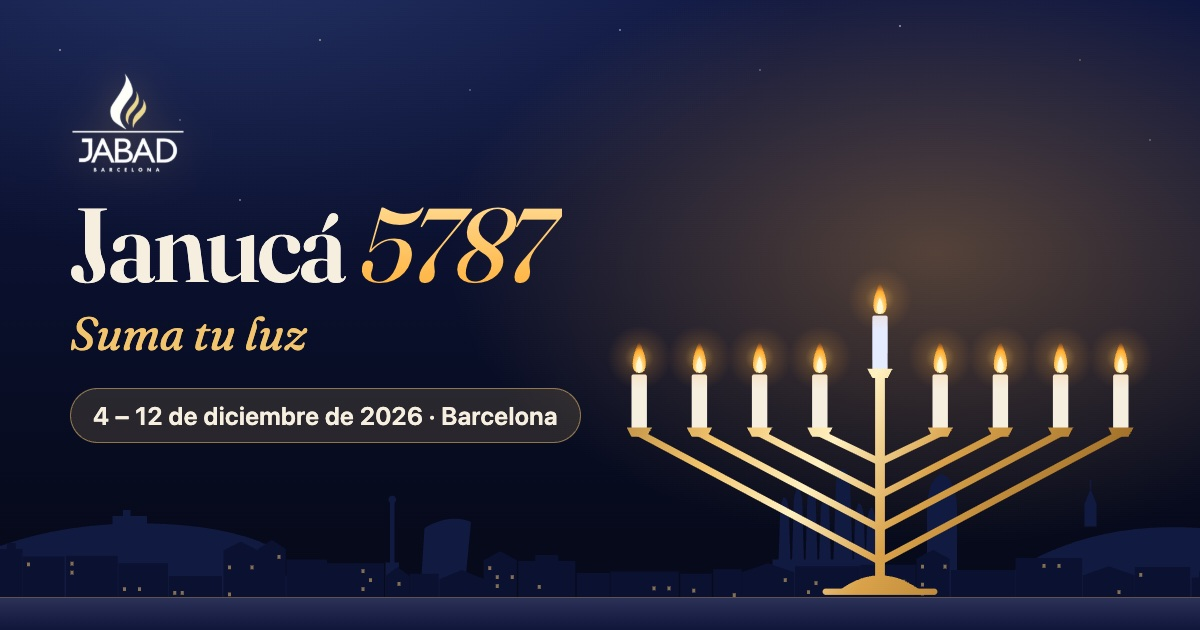
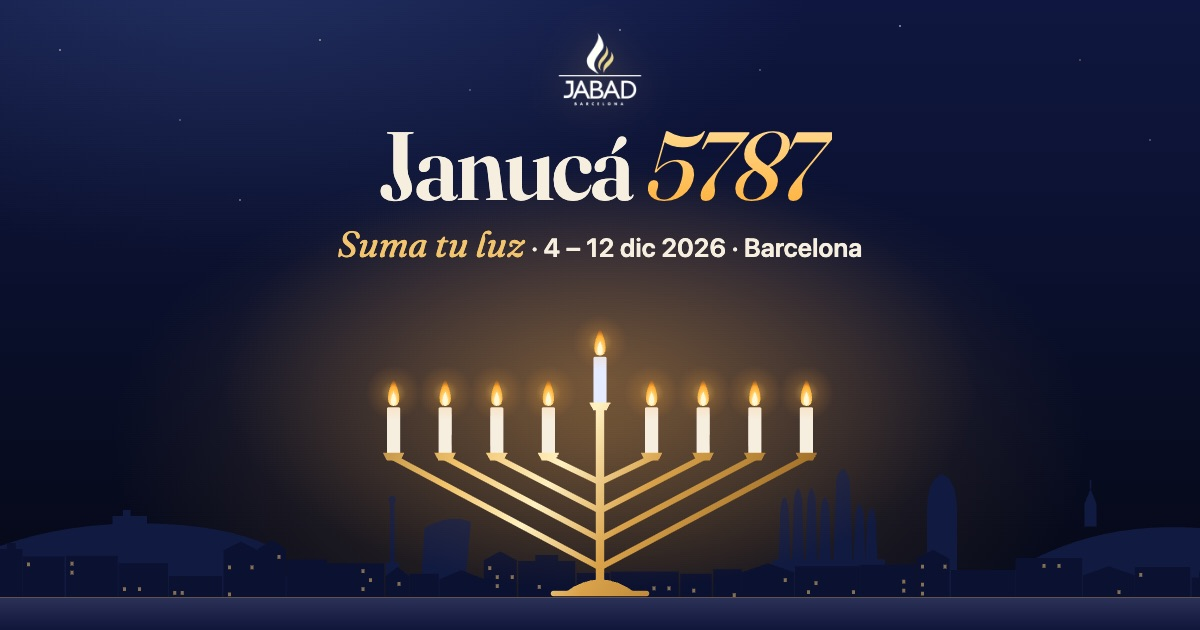
Imagen para compartir centrada (se ve bien también recortada en cuadrado) y etiquetas completas con versión

diff --git a/src/partes/compartir.html b/src/partes/compartir.html
@@ -14,7 +14,7 @@
   body {
     position: relative; font-family: system-ui, -apple-system, sans-serif; color: #f6efe0;
     background:
-      radial-gradient(700px 420px at 78% 40%, rgba(255,180,80,.30), transparent 70%),
+      radial-gradient(700px 420px at 50% 70%, rgba(255,180,80,.22), transparent 70%),
       radial-gradient(900px 500px at 20% -10%, rgba(126,166,255,.18), transparent 65%),
       linear-gradient(180deg, #0f1740, #060a1b 85%);
   }
@@ -29,25 +29,27 @@
   .sky svg { width: 100%; height: 100%; }
   .sky .far { fill: #111a40; } .sky .near { fill: #0b1130; } .sky .win { fill: #ffcf7a; opacity: .5; }
   .sill { position: absolute; left: 0; right: 0; bottom: 0; height: 32px; background: linear-gradient(180deg, #2b3157, #10163a); border-top: 1px solid rgba(242,196,109,.35); }
-  .jan { position: absolute; right: 40px; bottom: 26px; width: 560px; }
-  .copy { position: absolute; left: 70px; top: 70px; width: 560px; }
-  .logo { width: 116px; display: block; margin-bottom: 18px; filter: drop-shadow(0 0 18px rgba(255,190,90,.35)); }
-  h1 { margin: 0; font-family: Fraunces, Georgia, serif; font-weight: 600; font-size: 104px; line-height: .95; letter-spacing: -2px; font-variation-settings: "opsz" 144; }
-  h1 em { font-style: italic; font-weight: 500; background: linear-gradient(180deg, #ffe2a3, #ffab2e); -webkit-background-clip: text; background-clip: text; color: transparent; padding-right: .12em; }
-  .sub { margin: 10px 0 0; font-family: Fraunces, Georgia, serif; font-style: italic; font-size: 46px; color: #f2c46d; }
-  .date { margin: 26px 0 0; display: inline-block; padding: 12px 22px; border-radius: 999px; background: rgba(242,196,109,.14); border: 1.5px solid rgba(242,196,109,.5); font-size: 25px; font-weight: 600; letter-spacing: .3px; }
+  /* Composición centrada: si WhatsApp recorta el centro en cuadrado, se ve igual de bien */
+  .jan { position: absolute; left: 50%; bottom: 26px; width: 480px; transform: translateX(-50%); }
+  .glow { position: absolute; left: 50%; bottom: 40px; width: 760px; height: 420px; transform: translateX(-50%); background: radial-gradient(closest-side, rgba(255,180,80,.32), transparent); }
+  .copy { position: absolute; left: 0; right: 0; top: 30px; text-align: center; }
+  .logo { width: 86px; display: block; margin: 0 auto 10px; filter: drop-shadow(0 0 18px rgba(255,190,90,.35)); }
+  h1 { margin: 0; font-family: Fraunces, Georgia, serif; font-weight: 600; font-size: 96px; line-height: .95; letter-spacing: -2px; font-variation-settings: "opsz" 144; }
+  h1 em { font-style: italic; font-weight: 500; background: linear-gradient(180deg, #ffe2a3, #ffab2e); -webkit-background-clip: text; background-clip: text; color: transparent; padding-right: .12em; margin-right: -.12em; }
+  .sub { margin: 10px 0 0; font-family: Fraunces, Georgia, serif; font-style: italic; font-size: 36px; color: #f2c46d; }
+  .sub span { font-family: system-ui, -apple-system, sans-serif; font-style: normal; font-size: 26px; font-weight: 600; color: #f6efe0; }
 </style>
 </head>
 <body>
   <div class="stars"></div>
   <div class="sky"><!--SKYLINE--></div>
   <div class="sill"></div>
+  <div class="glow"></div>
   <img class="jan" src="janukia-8.svg" alt="">
   <div class="copy">
     <img class="logo" src="../../assets/img/jabad-barcelona.webp" alt="">
     <h1>Janucá <em>5787</em></h1>
-    <p class="sub">Suma tu luz</p>
-    <p class="date">4 – 12 de diciembre de 2026 · Barcelona</p>
+    <p class="sub">Suma tu luz <span>· 4 – 12 dic 2026 · Barcelona</span></p>
   </div>
   <script>
     // inserta el skyline de la web

diff --git a/index.html b/index.html
@@ -13,11 +13,16 @@
   <meta property="og:site_name" content="Janucá 5787 · Jabad Barcelona">
   <meta property="og:title" content="Janucá 5787 en Barcelona · Suma tu luz · Jabad Barcelona">
   <meta property="og:description" content="Janucá 2026 con Jabad Barcelona: del 4 al 12 de diciembre. Enciende tu janukiá, consulta los horarios de Barcelona, pide tu kit gratuito y ven a los 4 grandes encendidos.">
-  <meta property="og:image" content="https://janucabarcelona.com/assets/img/compartir.jpg">
+  <meta property="og:image" content="https://janucabarcelona.com/assets/img/compartir.jpg?v=2">
+  <meta property="og:image:secure_url" content="https://janucabarcelona.com/assets/img/compartir.jpg?v=2">
+  <meta property="og:image:type" content="image/jpeg">
   <meta property="og:image:width" content="1200">
   <meta property="og:image:height" content="630">
   <meta property="og:image:alt" content="Janucá 5787 con Jabad Barcelona · Suma tu luz">
   <meta name="twitter:card" content="summary_large_image">
+  <meta name="twitter:title" content="Janucá 5787 en Barcelona · Suma tu luz · Jabad Barcelona">
+  <meta name="twitter:description" content="Janucá 2026 con Jabad Barcelona: del 4 al 12 de diciembre. Enciende tu janukiá, consulta los horarios de Barcelona, pide tu kit gratuito y ven a los 4 grandes encendidos.">
+  <meta name="twitter:image" content="https://janucabarcelona.com/assets/img/compartir.jpg?v=2">
   <link rel="icon" href="assets/img/favicon-32.png" sizes="32x32" type="image/png">
   <link rel="icon" href="assets/img/favicon-192.png" sizes="192x192" type="image/png">
   <link rel="apple-touch-icon" href="assets/img/apple-touch-icon.png">

diff --git a/eventos.html b/eventos.html
@@ -13,11 +13,16 @@
   <meta property="og:site_name" content="Janucá 5787 · Jabad Barcelona">
   <meta property="og:title" content="Encendidos de Janucá 2026 en Barcelona · Jabad Barcelona">
   <meta property="og:description" content="Los 4 encendidos públicos de Janucá de Jabad Barcelona en diciembre de 2026: Plaça del Rei, Plaça Sant Jaume, Rambla de Catalunya y Moll de la Fusta.">
-  <meta property="og:image" content="https://janucabarcelona.com/assets/img/compartir.jpg">
+  <meta property="og:image" content="https://janucabarcelona.com/assets/img/compartir.jpg?v=2">
+  <meta property="og:image:secure_url" content="https://janucabarcelona.com/assets/img/compartir.jpg?v=2">
+  <meta property="og:image:type" content="image/jpeg">
   <meta property="og:image:width" content="1200">
   <meta property="og:image:height" content="630">
   <meta property="og:image:alt" content="Janucá 5787 con Jabad Barcelona · Suma tu luz">
   <meta name="twitter:card" content="summary_large_image">
+  <meta name="twitter:title" content="Encendidos de Janucá 2026 en Barcelona · Jabad Barcelona">
+  <meta name="twitter:description" content="Los 4 encendidos públicos de Janucá de Jabad Barcelona en diciembre de 2026: Plaça del Rei, Plaça Sant Jaume, Rambla de Catalunya y Moll de la Fusta.">
+  <meta name="twitter:image" content="https://janucabarcelona.com/assets/img/compartir.jpg?v=2">
   <link rel="icon" href="assets/img/favicon-32.png" sizes="32x32" type="image/png">
   <link rel="icon" href="assets/img/favicon-192.png" sizes="192x192" type="image/png">
   <link rel="apple-touch-icon" href="assets/img/apple-touch-icon.png">

diff --git a/horarios.html b/horarios.html
@@ -13,11 +13,16 @@
   <meta property="og:site_name" content="Janucá 5787 · Jabad Barcelona">
   <meta property="og:title" content="Horarios de encendido Janucá 2026 en Barcelona · Jabad Barcelona">
   <meta property="og:description" content="Calendario de encendido de la janukiá en Barcelona, Janucá 5787: del viernes 4 al viernes 11 de diciembre de 2026, con horarios de Shabat.">
-  <meta property="og:image" content="https://janucabarcelona.com/assets/img/compartir.jpg">
+  <meta property="og:image" content="https://janucabarcelona.com/assets/img/compartir.jpg?v=2">
+  <meta property="og:image:secure_url" content="https://janucabarcelona.com/assets/img/compartir.jpg?v=2">
+  <meta property="og:image:type" content="image/jpeg">
   <meta property="og:image:width" content="1200">
   <meta property="og:image:height" content="630">
   <meta property="og:image:alt" content="Janucá 5787 con Jabad Barcelona · Suma tu luz">
   <meta name="twitter:card" content="summary_large_image">
+  <meta name="twitter:title" content="Horarios de encendido Janucá 2026 en Barcelona · Jabad Barcelona">
+  <meta name="twitter:description" content="Calendario de encendido de la janukiá en Barcelona, Janucá 5787: del viernes 4 al viernes 11 de diciembre de 2026, con horarios de Shabat.">
+  <meta name="twitter:image" content="https://janucabarcelona.com/assets/img/compartir.jpg?v=2">
   <link rel="icon" href="assets/img/favicon-32.png" sizes="32x32" type="image/png">
   <link rel="icon" href="assets/img/favicon-192.png" sizes="192x192" type="image/png">
   <link rel="apple-touch-icon" href="assets/img/apple-touch-icon.png">

diff --git a/receta.html b/receta.html
@@ -13,11 +13,16 @@
   <meta property="og:site_name" content="Janucá 5787 · Jabad Barcelona">
   <meta property="og:title" content="Recetas de Janucá: sufganiot y latkes · Jabad Barcelona">
   <meta property="og:description" content="Recetas caseras de Janucá: sufganiot (berlinas rellenas) y latkes (tortitas de patata), fritas en aceite para recordar el milagro.">
-  <meta property="og:image" content="https://janucabarcelona.com/assets/img/compartir.jpg">
+  <meta property="og:image" content="https://janucabarcelona.com/assets/img/compartir.jpg?v=2">
+  <meta property="og:image:secure_url" content="https://janucabarcelona.com/assets/img/compartir.jpg?v=2">
+  <meta property="og:image:type" content="image/jpeg">
   <meta property="og:image:width" content="1200">
   <meta property="og:image:height" content="630">
   <meta property="og:image:alt" content="Janucá 5787 con Jabad Barcelona · Suma tu luz">
   <meta name="twitter:card" content="summary_large_image">
+  <meta name="twitter:title" content="Recetas de Janucá: sufganiot y latkes · Jabad Barcelona">
+  <meta name="twitter:description" content="Recetas caseras de Janucá: sufganiot (berlinas rellenas) y latkes (tortitas de patata), fritas en aceite para recordar el milagro.">
+  <meta name="twitter:image" content="https://janucabarcelona.com/assets/img/compartir.jpg?v=2">
   <link rel="icon" href="assets/img/favicon-32.png" sizes="32x32" type="image/png">
   <link rel="icon" href="assets/img/favicon-192.png" sizes="192x192" type="image/png">
   <link rel="apple-touch-icon" href="assets/img/apple-touch-icon.png">

diff --git a/bendiciones.html b/bendiciones.html
@@ -13,11 +13,16 @@
   <meta property="og:site_name" content="Janucá 5787 · Jabad Barcelona">
   <meta property="og:title" content="Bendiciones y canciones de Janucá · Jabad Barcelona">
   <meta property="og:description" content="Las bendiciones para encender la janukiá con transliteración y traducción, Hanerot Halalu, Mizmor Shir Janucat Habáit y Maoz Tzur.">
-  <meta property="og:image" content="https://janucabarcelona.com/assets/img/compartir.jpg">
+  <meta property="og:image" content="https://janucabarcelona.com/assets/img/compartir.jpg?v=2">
+  <meta property="og:image:secure_url" content="https://janucabarcelona.com/assets/img/compartir.jpg?v=2">
+  <meta property="og:image:type" content="image/jpeg">
   <meta property="og:image:width" content="1200">
   <meta property="og:image:height" content="630">
   <meta property="og:image:alt" content="Janucá 5787 con Jabad Barcelona · Suma tu luz">
   <meta name="twitter:card" content="summary_large_image">
+  <meta name="twitter:title" content="Bendiciones y canciones de Janucá · Jabad Barcelona">
+  <meta name="twitter:description" content="Las bendiciones para encender la janukiá con transliteración y traducción, Hanerot Halalu, Mizmor Shir Janucat Habáit y Maoz Tzur.">
+  <meta name="twitter:image" content="https://janucabarcelona.com/assets/img/compartir.jpg?v=2">
   <link rel="icon" href="assets/img/favicon-32.png" sizes="32x32" type="image/png">
   <link rel="icon" href="assets/img/favicon-192.png" sizes="192x192" type="image/png">
   <link rel="apple-touch-icon" href="assets/img/apple-touch-icon.png">

diff --git a/como-encender.html b/como-encender.html
@@ -13,11 +13,16 @@
   <meta property="og:site_name" content="Janucá 5787 · Jabad Barcelona">
   <meta property="og:title" content="Cómo encender la janukiá de Janucá · Jabad Barcelona">
   <meta property="og:description" content="Guía práctica para encender la janukiá: qué necesitas, dónde colocarla, el paso a paso y cuándo encenderla en Barcelona.">
-  <meta property="og:image" content="https://janucabarcelona.com/assets/img/compartir.jpg">
+  <meta property="og:image" content="https://janucabarcelona.com/assets/img/compartir.jpg?v=2">
+  <meta property="og:image:secure_url" content="https://janucabarcelona.com/assets/img/compartir.jpg?v=2">
+  <meta property="og:image:type" content="image/jpeg">
   <meta property="og:image:width" content="1200">
   <meta property="og:image:height" content="630">
   <meta property="og:image:alt" content="Janucá 5787 con Jabad Barcelona · Suma tu luz">
   <meta name="twitter:card" content="summary_large_image">
+  <meta name="twitter:title" content="Cómo encender la janukiá de Janucá · Jabad Barcelona">
+  <meta name="twitter:description" content="Guía práctica para encender la janukiá: qué necesitas, dónde colocarla, el paso a paso y cuándo encenderla en Barcelona.">
+  <meta name="twitter:image" content="https://janucabarcelona.com/assets/img/compartir.jpg?v=2">
   <link rel="icon" href="assets/img/favicon-32.png" sizes="32x32" type="image/png">
   <link rel="icon" href="assets/img/favicon-192.png" sizes="192x192" type="image/png">
   <link rel="apple-touch-icon" href="assets/img/apple-touch-icon.png">

diff --git a/tradiciones.html b/tradiciones.html
@@ -13,11 +13,16 @@
   <meta property="og:site_name" content="Janucá 5787 · Jabad Barcelona">
   <meta property="og:title" content="Tradiciones de Janucá: dréidel y Janucá guelt · Jabad Barcelona">
   <meta property="og:description" content="El juego del dréidel (sevivón) y sus reglas, con un dréidel para girar online, y el sentido del Janucá guelt.">
-  <meta property="og:image" content="https://janucabarcelona.com/assets/img/compartir.jpg">
+  <meta property="og:image" content="https://janucabarcelona.com/assets/img/compartir.jpg?v=2">
+  <meta property="og:image:secure_url" content="https://janucabarcelona.com/assets/img/compartir.jpg?v=2">
+  <meta property="og:image:type" content="image/jpeg">
   <meta property="og:image:width" content="1200">
   <meta property="og:image:height" content="630">
   <meta property="og:image:alt" content="Janucá 5787 con Jabad Barcelona · Suma tu luz">
   <meta name="twitter:card" content="summary_large_image">
+  <meta name="twitter:title" content="Tradiciones de Janucá: dréidel y Janucá guelt · Jabad Barcelona">
+  <meta name="twitter:description" content="El juego del dréidel (sevivón) y sus reglas, con un dréidel para girar online, y el sentido del Janucá guelt.">
+  <meta name="twitter:image" content="https://janucabarcelona.com/assets/img/compartir.jpg?v=2">
   <link rel="icon" href="assets/img/favicon-32.png" sizes="32x32" type="image/png">
   <link rel="icon" href="assets/img/favicon-192.png" sizes="192x192" type="image/png">
   <link rel="apple-touch-icon" href="assets/img/apple-touch-icon.png">

diff --git a/historia.html b/historia.html
@@ -13,11 +13,16 @@
   <meta property="og:site_name" content="Janucá 5787 · Jabad Barcelona">
   <meta property="og:title" content="Historia y milagros de Janucá · Jabad Barcelona">
   <meta property="og:description" content="Qué es Janucá, la Fiesta de las Luces: la historia de los macabeos y los dos milagros que celebramos durante ocho noches.">
-  <meta property="og:image" content="https://janucabarcelona.com/assets/img/compartir.jpg">
+  <meta property="og:image" content="https://janucabarcelona.com/assets/img/compartir.jpg?v=2">
+  <meta property="og:image:secure_url" content="https://janucabarcelona.com/assets/img/compartir.jpg?v=2">
+  <meta property="og:image:type" content="image/jpeg">
   <meta property="og:image:width" content="1200">
   <meta property="og:image:height" content="630">
   <meta property="og:image:alt" content="Janucá 5787 con Jabad Barcelona · Suma tu luz">
   <meta name="twitter:card" content="summary_large_image">
+  <meta name="twitter:title" content="Historia y milagros de Janucá · Jabad Barcelona">
+  <meta name="twitter:description" content="Qué es Janucá, la Fiesta de las Luces: la historia de los macabeos y los dos milagros que celebramos durante ocho noches.">
+  <meta name="twitter:image" content="https://janucabarcelona.com/assets/img/compartir.jpg?v=2">
   <link rel="icon" href="assets/img/favicon-32.png" sizes="32x32" type="image/png">
   <link rel="icon" href="assets/img/favicon-192.png" sizes="192x192" type="image/png">
   <link rel="apple-touch-icon" href="assets/img/apple-touch-icon.png">

diff --git a/src/construir.js b/src/construir.js
@@ -14,6 +14,8 @@ const DOMINIO = 'https://janucabarcelona.com';
 // Direcciones sin «.html» (/historia). GitHub Pages y Cloudflare Pages las entienden;
 // para ver la web en local usa «node src/servidor.js». En un hosting clásico (FTP), pon false.
 const URLS_LIMPIAS = true;
+// Súbelo (+1) cada vez que cambies assets/img/compartir.jpg, para que WhatsApp y las redes no usen la copia vieja
+const VERSION_IMAGEN = 2;
 const urlDe = (f) => `${DOMINIO}/${f === 'index.html' ? '' : (URLS_LIMPIAS ? f.replace(/\.html$/, '') : f)}`;
 
 // Menú principal (también se usa en el pie). El tercer valor es una clase opcional.
@@ -53,7 +55,7 @@ function pagina(archivo, meta, cuerpo) {
     TITULO: meta.title,
     DESCRIPCION: meta.description,
     CANONICA: url ? `<link rel="canonical" href="${url}">\n  <meta property="og:url" content="${url}">` : '',
-    IMAGEN_COMPARTIR: (DOMINIO ? DOMINIO + '/' : '') + 'assets/img/compartir.jpg',
+    IMAGEN_COMPARTIR: (DOMINIO ? DOMINIO + '/' : '') + 'assets/img/compartir.jpg?v=' + VERSION_IMAGEN,
     FUENTES: fuentes,
     SCRIPTS: scripts
   }).replace(/\n\s*\n/g, '\n');

diff --git a/src/partes/cabeza.html b/src/partes/cabeza.html
@@ -10,10 +10,15 @@
   <meta property="og:title" content="{{TITULO}}">
   <meta property="og:description" content="{{DESCRIPCION}}">
   <meta property="og:image" content="{{IMAGEN_COMPARTIR}}">
+  <meta property="og:image:secure_url" content="{{IMAGEN_COMPARTIR}}">
+  <meta property="og:image:type" content="image/jpeg">
   <meta property="og:image:width" content="1200">
   <meta property="og:image:height" content="630">
   <meta property="og:image:alt" content="Janucá 5787 con Jabad Barcelona · Suma tu luz">
   <meta name="twitter:card" content="summary_large_image">
+  <meta name="twitter:title" content="{{TITULO}}">
+  <meta name="twitter:description" content="{{DESCRIPCION}}">
+  <meta name="twitter:image" content="{{IMAGEN_COMPARTIR}}">
   <link rel="icon" href="assets/img/favicon-32.png" sizes="32x32" type="image/png">
   <link rel="icon" href="assets/img/favicon-192.png" sizes="192x192" type="image/png">
   <link rel="apple-touch-icon" href="assets/img/apple-touch-icon.png">
